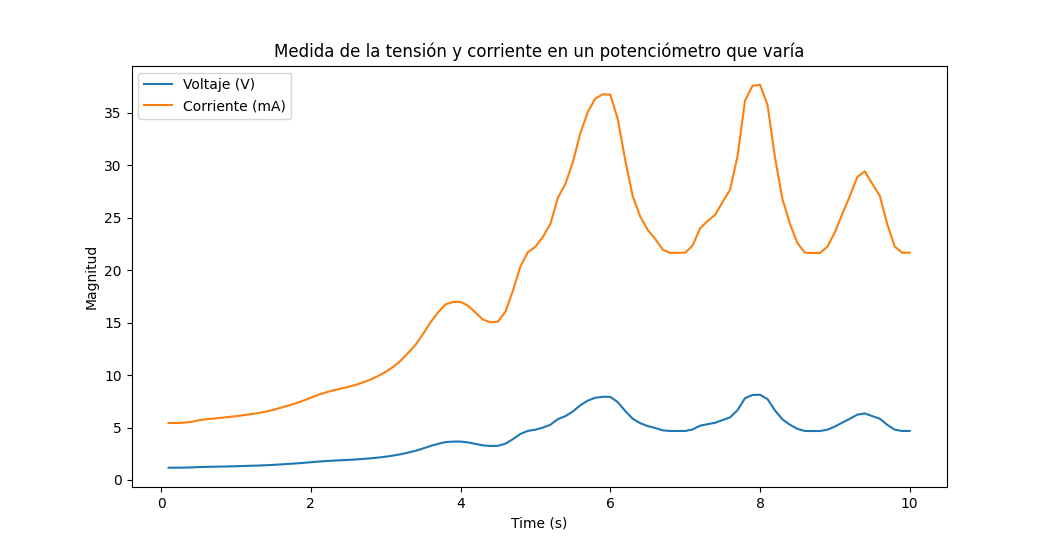
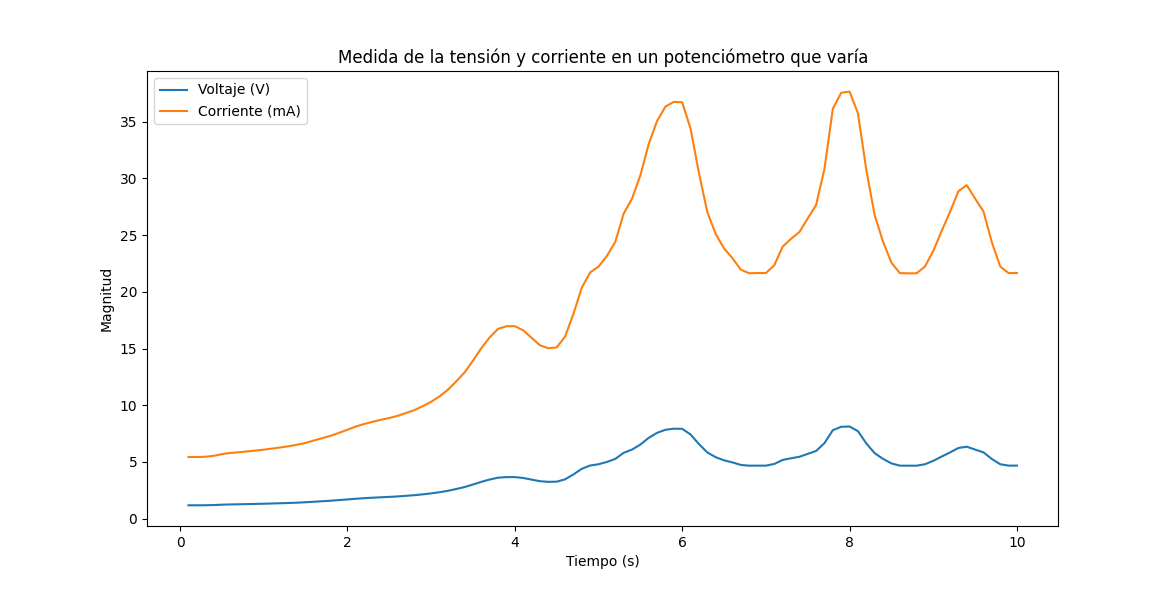
Codigo Python

diff --git a/S03/informe01.py b/S03/informe01.py
@@ -65,6 +65,6 @@ plt.plot(dsv.v)
 plt.plot(dsc.c)
 plt.title('Medida de la tensión y corriente en un potenciómetro que varía')
 plt.ylabel('Magnitud')
-plt.xlabel('Time (s)')
+plt.xlabel('Tiempo (s)')
 plt.legend(['Voltaje (V)','Corriente (mA)'],loc='upper left')
 plt.show()
